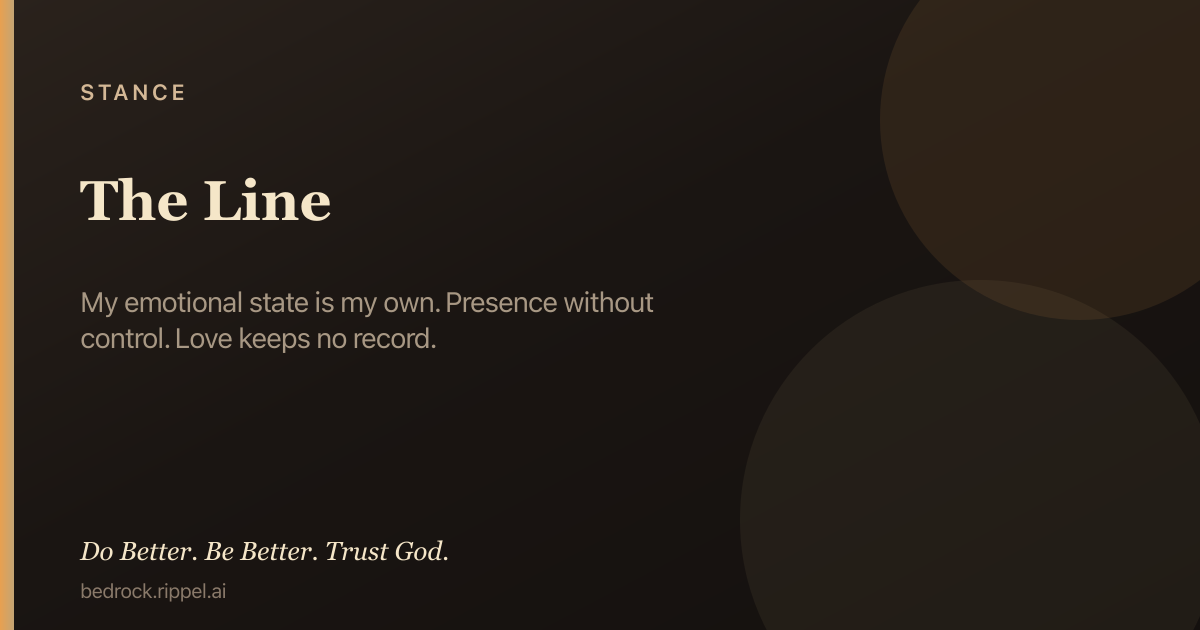
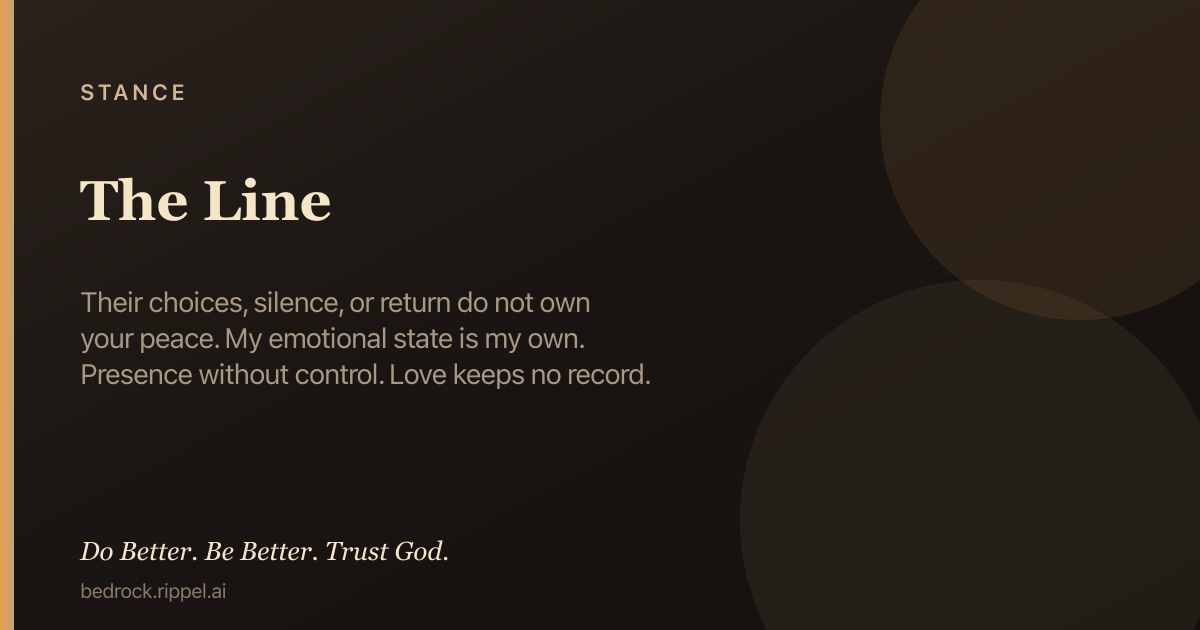
Restructure The Line: name the stance, then the three holds
Opener is their choices do not own your peace, then the creed.
Truth walks the three in clean lines. The Word maps state,
presence, and the ledger. Drop Trust/God-First leftovers.

Changed region(s): [[0.0617, 0.4524, 0.555, 0.6333]]

diff --git a/public/c/the-line.html b/public/c/the-line.html
@@ -4,7 +4,7 @@
   <meta charset="utf-8" />
   <meta name="viewport" content="width=device-width, initial-scale=1" />
   <title>The Line — Bedrock Stance</title>
-  <meta name="description" content="My emotional state is my own. Presence without control. Love keeps no record. Hold first: Under fire, prayer, then Truth. Do Better. Be Better. Trust God." />
+  <meta name="description" content="Their choices, silence, or return do not own your peace. My emotional state is my own. Presence without control. Love keeps no record. Hold first: Under…" />
   <meta name="robots" content="index, follow, max-image-preview:large, max-snippet:-1" />
   <meta name="ai-content-declaration" content="human-authored Christian field guide; hold-first: Under fire, Prayer, then Truth" />
   <link rel="canonical" href="https://bedrock.rippel.ai/c/the-line" />
@@ -12,7 +12,7 @@
   <meta property="og:site_name" content="Bedrock" />
   <meta property="og:type" content="article" />
   <meta property="og:title" content="The Line — Bedrock Stance" />
-  <meta property="og:description" content="My emotional state is my own. Presence without control. Love keeps no record. Hold first: Under fire, prayer, then Truth. Do Better. Be Better. Trust God." />
+  <meta property="og:description" content="Their choices, silence, or return do not own your peace. My emotional state is my own. Presence without control. Love keeps no record. Hold first: Under…" />
   <meta property="og:url" content="https://bedrock.rippel.ai/c/the-line" />
   <meta property="og:image" content="https://bedrock.rippel.ai/og/c/the-line.v10.png" />
   <meta property="og:image:secure_url" content="https://bedrock.rippel.ai/og/c/the-line.v10.png" />
@@ -22,11 +22,11 @@
   <meta property="og:image:alt" content="The Line — Bedrock Stance" />
   <meta name="twitter:card" content="summary_large_image" />
   <meta name="twitter:title" content="The Line — Bedrock Stance" />
-  <meta name="twitter:description" content="My emotional state is my own. Presence without control. Love keeps no record. Hold first: Under fire, prayer, then Truth. Do Better. Be Better. Trust God." />
+  <meta name="twitter:description" content="Their choices, silence, or return do not own your peace. My emotional state is my own. Presence without control. Love keeps no record. Hold first: Under…" />
   <meta name="twitter:image" content="https://bedrock.rippel.ai/og/c/the-line.v10.png" />
   <meta name="twitter:image:alt" content="The Line — Bedrock Stance" />
   <script type="application/ld+json">
-  {"@context":"https://schema.org","@type":"Article","headline":"The Line","description":"My emotional state is my own. Presence without control. Love keeps no record.","url":"https://bedrock.rippel.ai/c/the-line","author":{"@type":"Organization","name":"Bedrock","url":"https://bedrock.rippel.ai"},"publisher":{"@type":"Organization","name":"Bedrock","url":"https://bedrock.rippel.ai"},"image":"https://bedrock.rippel.ai/og/c/the-line.v10.png","inLanguage":"en","isPartOf":{"@type":"WebSite","name":"Bedrock","url":"https://bedrock.rippel.ai"},"articleSection":"Stance · Daily creed · How you stand","keywords":"The Line, Bedrock, Under fire, prayer, Scripture"}
+  {"@context":"https://schema.org","@type":"Article","headline":"The Line","description":"Their choices, silence, or return do not own your peace. My emotional state is my own. Presence without control. Love keeps no record.","url":"https://bedrock.rippel.ai/c/the-line","author":{"@type":"Organization","name":"Bedrock","url":"https://bedrock.rippel.ai"},"publisher":{"@type":"Organization","name":"Bedrock","url":"https://bedrock.rippel.ai"},"image":"https://bedrock.rippel.ai/og/c/the-line.v10.png","inLanguage":"en","isPartOf":{"@type":"WebSite","name":"Bedrock","url":"https://bedrock.rippel.ai"},"articleSection":"Stance · Daily creed · How you stand","keywords":"The Line, Bedrock, Under fire, prayer, Scripture"}
   </script>
   <script type="application/ld+json">
   {"@context":"https://schema.org","@type":"HowTo","name":"Use The Line under fire (Bedrock hold-first)","description":"Open this chamber for the next right hold: Under fire first, then Prayer, then Truth when you can read.","step":[{"@type":"HowToStep","position":1,"name":"Under fire","text":"My emotional state is my own. Presence without control. Love keeps no record."},{"@type":"HowToStep","position":2,"name":"Prayer","text":"Father, my state is my own. I am present under You. I keep no record. Amen."},{"@type":"HowToStep","position":3,"name":"Truth","text":"When capacity returns, read the Scripture-rooted body on this page."}],"url":"https://bedrock.rippel.ai/c/the-line"}
@@ -210,7 +210,7 @@
         <header class="chamber-header">
           <p class="chamber-kicker">Stance · Daily creed · How you stand</p>
           <h1 class="chamber-title">The Line</h1>
-          <p class="chamber-summary">My emotional state is my own. Presence without control. Love keeps no record.</p>
+          <p class="chamber-summary">Their choices, silence, or return do not own your peace. My emotional state is my own. Presence without control. Love keeps no record.</p>
           
         </header>
         <div class="hold-block" id="the-line-hold">
@@ -232,26 +232,31 @@
       <section class="field-layer field-truth-depth" aria-labelledby="truth">
         <h2 id="truth" class="field-layer-label">Truth</h2>
         <p class="field-layer-hint">When you can read deeper — Scripture-rooted steel.</p>
-        <div class="chamber-body"><p class="chamber-paragraph">My emotional state is my own. Their choices, silence, or return do not own your peace. You can love them and still rule yourself under God.</p>
-<p class="chamber-paragraph">Presence without control. Listen. Wait. Talk less. Do not force the present or the future. Show up cleanly; stop securing the outcome.</p>
-<p class="chamber-paragraph">Love keeps no record. Stop the ledger. Release the score. Do not rehearse every gap as evidence. Forgive as you have been forgiven.</p>
-<p class="chamber-paragraph">Be still, and know that I am God. I will be exalted among the nations, I will be exalted in the earth!</p>
-<p class="chamber-paragraph">Love is patient and kind; love does not envy or boast; it is not arrogant or rude. It does not insist on its own way; it is not irritable or resentful.</p>
+        <div class="chamber-body"><p class="chamber-paragraph">You can love them and still rule yourself under God.</p>
+<p class="chamber-paragraph">Listen. Wait. Talk less.</p>
+<p class="chamber-paragraph">Do not force the present or the future.</p>
+<p class="chamber-paragraph">Show up cleanly. Stop securing the outcome.</p>
+<p class="chamber-paragraph">Stop the ledger. Release the score.</p>
+<p class="chamber-paragraph">Do not rehearse every gap as evidence.</p>
+<p class="chamber-paragraph">Forgive as you have been forgiven.</p>
+<h4 class="body-head">The Word</h4>
 <p class="chamber-paragraph">For God gave us a spirit not of fear but of power and love and self-control.</p>
+<p class="chamber-paragraph">Be still, and know that I am God. I will be exalted among the nations, I will be exalted in the earth!</p>
 <p class="chamber-paragraph">Know this, my beloved brothers: let every person be quick to hear, slow to speak, slow to anger.</p>
-<p class="chamber-paragraph">Trust in the Lord with all your heart, and do not lean on your own understanding. In all your ways acknowledge Him, and He will make straight your paths.</p>
-<p class="chamber-paragraph">But seek first the kingdom of God and His righteousness, and all these things will be added to you.</p></div>
+<p class="chamber-paragraph">Therefore do not be anxious about tomorrow, for tomorrow will be anxious for itself. Sufficient for the day is its own trouble.</p>
+<p class="chamber-paragraph">Love is patient and kind; love does not envy or boast; it is not arrogant or rude. It does not insist on its own way; it is not irritable or resentful.</p>
+<p class="chamber-paragraph">As the Lord has forgiven you, so you also must forgive.</p></div>
       </section>
       <footer class="chamber-verses" aria-labelledby="scripture">
         <h3 id="scripture" class="verses-heading">Scripture</h3>
         <p class="field-layer-hint">Opens the passage on Bible Gateway.</p>
         <ul class="verses-list">
-<li><span class="verse-link verse-etched"><a class="verse-primary" href="https://www.biblegateway.com/passage/?search=Psalm+46%3A10&amp;version=NIV" target="_blank" rel="noopener noreferrer" title="Open Psalm 46:10 on Bible Gateway">Psalm 46:10</a></span></li>
-<li><span class="verse-link verse-etched"><a class="verse-primary" href="https://www.biblegateway.com/passage/?search=1+Corinthians+13%3A4-5&amp;version=NIV" target="_blank" rel="noopener noreferrer" title="Open 1 Corinthians 13:4–5 on Bible Gateway">1 Corinthians 13:4–5</a></span></li>
 <li><span class="verse-link verse-etched"><a class="verse-primary" href="https://www.biblegateway.com/passage/?search=2+Timothy+1%3A7&amp;version=NIV" target="_blank" rel="noopener noreferrer" title="Open 2 Timothy 1:7 on Bible Gateway">2 Timothy 1:7</a></span></li>
+<li><span class="verse-link verse-etched"><a class="verse-primary" href="https://www.biblegateway.com/passage/?search=Psalm+46%3A10&amp;version=NIV" target="_blank" rel="noopener noreferrer" title="Open Psalm 46:10 on Bible Gateway">Psalm 46:10</a></span></li>
 <li><span class="verse-link verse-etched"><a class="verse-primary" href="https://www.biblegateway.com/passage/?search=James+1%3A19&amp;version=NIV" target="_blank" rel="noopener noreferrer" title="Open James 1:19 on Bible Gateway">James 1:19</a></span></li>
-<li><span class="verse-link verse-etched"><a class="verse-primary" href="https://www.biblegateway.com/passage/?search=Proverbs+3%3A5-6&amp;version=NIV" target="_blank" rel="noopener noreferrer" title="Open Proverbs 3:5–6 on Bible Gateway">Proverbs 3:5–6</a></span></li>
-<li><span class="verse-link verse-etched"><a class="verse-primary" href="https://www.biblegateway.com/passage/?search=Matthew+6%3A33&amp;version=NIV" target="_blank" rel="noopener noreferrer" title="Open Matthew 6:33 on Bible Gateway">Matthew 6:33</a></span></li>
+<li><span class="verse-link verse-etched"><a class="verse-primary" href="https://www.biblegateway.com/passage/?search=Matthew+6%3A34&amp;version=NIV" target="_blank" rel="noopener noreferrer" title="Open Matthew 6:34 on Bible Gateway">Matthew 6:34</a></span></li>
+<li><span class="verse-link verse-etched"><a class="verse-primary" href="https://www.biblegateway.com/passage/?search=1+Corinthians+13%3A4-5&amp;version=NIV" target="_blank" rel="noopener noreferrer" title="Open 1 Corinthians 13:4–5 on Bible Gateway">1 Corinthians 13:4–5</a></span></li>
+<li><span class="verse-link verse-etched"><a class="verse-primary" href="https://www.biblegateway.com/passage/?search=Colossians+3%3A13&amp;version=NIV" target="_blank" rel="noopener noreferrer" title="Open Colossians 3:13 on Bible Gateway">Colossians 3:13</a></span></li>
 </ul>
       </footer>
       <nav class="related-web" aria-label="Related first principles" aria-labelledby="related">

diff --git a/src/lib/content-integrity.test.ts b/src/lib/content-integrity.test.ts
@@ -133,6 +133,7 @@ describe('bedrock content integrity', () => {
     const theLine = byId.get('the-line')!
     expect(theLine.title).toBe('The Line')
     expect(theLine.kind).toBe('stance')
+    expect(theLine.summary.toLowerCase()).toMatch(/choices, silence, or return do not own your peace/)
     expect(theLine.summary.toLowerCase()).toMatch(
       /emotional state is my own|presence without control|love keeps no record/,
     )
@@ -142,7 +143,24 @@ describe('bedrock content integrity', () => {
       'Love keeps no record.',
     ])
     expect(theLine.prayers[0]?.toLowerCase()).toMatch(/state is my own|keep no record/)
-    expect(theLine.body.every((b) => b.type === 'paragraph')).toBe(true)
+    expect(theLine.body.filter((b) => b.type === 'heading').map((b) => ('text' in b ? b.text : ''))).toEqual([
+      'The Word',
+    ])
+    expect(theLine.body.every((b) => b.type === 'paragraph' || b.type === 'heading')).toBe(true)
+    const theLineBody = theLine.body.map((b) => ('text' in b ? b.text : '')).join(' ').toLowerCase()
+    expect(theLineBody).not.toMatch(/choices, silence, or return do not own your peace/)
+    expect(theLineBody).toMatch(/love them and still rule yourself/)
+    expect(theLineBody).toMatch(/stop the ledger/)
+    expect(theLineBody).toMatch(/forgive as you have been forgiven/)
+    const theLineVerses = theLine.verses.map((v) => v.display).join(' ')
+    expect(theLineVerses).toMatch(/2 Timothy 1:7/)
+    expect(theLineVerses).toMatch(/Psalm 46:10/)
+    expect(theLineVerses).toMatch(/James 1:19/)
+    expect(theLineVerses).toMatch(/Matthew 6:34/)
+    expect(theLineVerses).toMatch(/1 Corinthians 13:4/)
+    expect(theLineVerses).toMatch(/Colossians 3:13/)
+    expect(theLineVerses).not.toMatch(/Proverbs 3:5/)
+    expect(theLineVerses).not.toMatch(/Matthew 6:33/)
     expect(theLine.related).toContain('pain-interrupt')
     expect(theLine.related).toContain('kill-the-flesh-walk-in-the-spirit')
     expect(theLine.related).toContain('kill-the-flesh')
@@ -410,7 +428,7 @@ describe('bedrock content integrity', () => {
     /** @type {ReadonlySet<string>} */
     const stationListAllow = new Set(['kill-the-flesh'])
     /** Stance may mark the Word as a subhead when teaching and verses share Truth. */
-    const stationHeadingAllow = new Set(['your-side-of-the-street'])
+    const stationHeadingAllow = new Set(['your-side-of-the-street', 'the-line'])
     for (const c of chambers) {
       const kind = c.kind ?? 'chamber'
       if (kind === 'rubric') {

diff --git a/public/c/the-line.md b/public/c/the-line.md
@@ -1,6 +1,6 @@
 # Stance: The Line
 
-> My emotional state is my own. Presence without control. Love keeps no record.
+> Their choices, silence, or return do not own your peace. My emotional state is my own. Presence without control. Love keeps no record.
 
 *Stance · Daily creed · How you stand · Hold first · Bedrock · https://bedrock.rippel.ai/c/the-line*
 
@@ -16,32 +16,42 @@ Father, my state is my own. I am present under You. I keep no record. Amen.
 
 ## Truth
 
-My emotional state is my own. Their choices, silence, or return do not own your peace. You can love them and still rule yourself under God.
+You can love them and still rule yourself under God.
 
-Presence without control. Listen. Wait. Talk less. Do not force the present or the future. Show up cleanly; stop securing the outcome.
+Listen. Wait. Talk less.
 
-Love keeps no record. Stop the ledger. Release the score. Do not rehearse every gap as evidence. Forgive as you have been forgiven.
+Do not force the present or the future.
 
-Be still, and know that I am God. I will be exalted among the nations, I will be exalted in the earth!
+Show up cleanly. Stop securing the outcome.
 
-Love is patient and kind; love does not envy or boast; it is not arrogant or rude. It does not insist on its own way; it is not irritable or resentful.
+Stop the ledger. Release the score.
+
+Do not rehearse every gap as evidence.
+
+Forgive as you have been forgiven.
+
+### The Word
 
 For God gave us a spirit not of fear but of power and love and self-control.
 
+Be still, and know that I am God. I will be exalted among the nations, I will be exalted in the earth!
+
 Know this, my beloved brothers: let every person be quick to hear, slow to speak, slow to anger.
 
-Trust in the Lord with all your heart, and do not lean on your own understanding. In all your ways acknowledge Him, and He will make straight your paths.
+Therefore do not be anxious about tomorrow, for tomorrow will be anxious for itself. Sufficient for the day is its own trouble.
 
-But seek first the kingdom of God and His righteousness, and all these things will be added to you.
+Love is patient and kind; love does not envy or boast; it is not arrogant or rude. It does not insist on its own way; it is not irritable or resentful.
+
+As the Lord has forgiven you, so you also must forgive.
 
 ## Scripture
 
-- [Psalm 46:10](https://www.biblegateway.com/passage/?search=Psalm+46%3A10&version=NIV)
-- [1 Corinthians 13:4–5](https://www.biblegateway.com/passage/?search=1+Corinthians+13%3A4-5&version=NIV)
 - [2 Timothy 1:7](https://www.biblegateway.com/passage/?search=2+Timothy+1%3A7&version=NIV)
+- [Psalm 46:10](https://www.biblegateway.com/passage/?search=Psalm+46%3A10&version=NIV)
 - [James 1:19](https://www.biblegateway.com/passage/?search=James+1%3A19&version=NIV)
-- [Proverbs 3:5–6](https://www.biblegateway.com/passage/?search=Proverbs+3%3A5-6&version=NIV)
-- [Matthew 6:33](https://www.biblegateway.com/passage/?search=Matthew+6%3A33&version=NIV)
+- [Matthew 6:34](https://www.biblegateway.com/passage/?search=Matthew+6%3A34&version=NIV)
+- [1 Corinthians 13:4–5](https://www.biblegateway.com/passage/?search=1+Corinthians+13%3A4-5&version=NIV)
+- [Colossians 3:13](https://www.biblegateway.com/passage/?search=Colossians+3%3A13&version=NIV)
 
 ## Connected truth
 

diff --git a/public/c/README.md b/public/c/README.md
@@ -53,7 +53,7 @@ Canonical field-guide pages for crawlers and answer engines.
 - [Jealousy](https://bedrock.rippel.ai/c/jealousy) — If it demands control of another, it is not love — walk by the Spirit; put the flesh to death.
 - [Control](https://bedrock.rippel.ai/c/control) — Control is the grip on the outcome. Often fear — also pride, habit, or idol. Stop securing what only God can rule.
 - [Presence Without Control](https://bedrock.rippel.ai/c/presence-without-control) — Relax. Be present. Don’t take or force control of the present or the future.
-- [The Line](https://bedrock.rippel.ai/c/the-line) — My emotional state is my own. Presence without control. Love keeps no record.
+- [The Line](https://bedrock.rippel.ai/c/the-line) — Their choices, silence, or return do not own your peace. My emotional state is my own. Presence without control. Love keeps no record.
 - [Your Side of the Street](https://bedrock.rippel.ai/c/your-side-of-the-street) — During separation they are on their side of the street and you on yours. Your life. Love is the way. Change the mission.
 - [Pain Interrupt](https://bedrock.rippel.ai/c/pain-interrupt) — Notice it. My emotional state is my own. Return to what is in front of me.
 - [Renew Your Mind](https://bedrock.rippel.ai/c/renew-your-mind) — Do not conform to the old pattern. Be transformed by the renewal of your mind — Word, prayer, one thought at a time.
